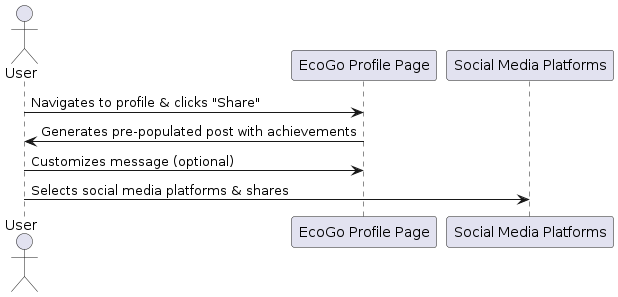
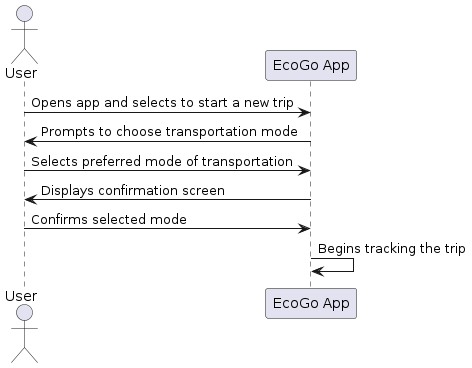
2nd draft of the technical spec + new gps part in the functional

diff --git a/Docs/Technical/TechnicalSpecification.md b/Docs/Technical/TechnicalSpecification.md
@@ -9,7 +9,9 @@
 </div>
 
 
-## I. Audience 
+## 1. Introduction
+
+### 1.1. Audience
 
 This document is primarily intended for:
 
@@ -23,25 +25,25 @@ Secondary audiences:
 
 - Project manager: to help identify risks and dependencies
 
-## II. Overview
+### 1.2. Overview
 
 EcoGo is a mobile application designed to help individuals track and reduce their carbon dioxide (CO2) emissions from everyday activities, particularly focusing on transportation. The app aims to provide users with real-time data on their emissions and incentivize eco-friendly behaviors through gamification and rewards.
 
 
-## III. Glossary
+### 1.3. Glossary
 
 | Term              | Definition                                                                 |
 |-------------------|----------------------------------------------------------------------------|
 | Firebase          | A mobile and web application development platform developed by Firebase, Inc. in 2011, then acquired by Google in 2014. |
 
 
-## IV. Requirements 
+### 1.4. Objectives 
 
 **Carbon Footprint Tracking**
-Implement a system to track carbon emissions from various transportation modes, including walking, cycling, public transport, and driving.
+Users can track their carbon emissions from various transportation modes, including walking, cycling, public transport, and driving.
 
 **Real-time Emission Calculation**
-Implement a system to calculate carbon emissions in real-time based on GPS data, distance traveled, and transportation mode.
+The app calculates carbon emissions in real-time based on GPS data, distance traveled, and transportation mode.
 
 **GPS Navigation and Transportation Mode Selection**
 Users can utilize GPS within the app to select a destination, choose their preferred mode of transportation, and receive guided directions to reach their destination.
@@ -49,64 +51,127 @@ Users can utilize GPS within the app to select a destination, choose their prefe
 **Graphical Representation**
 Users can visualize their carbon footprint over time through interactive graphs, providing insights into their environmental impact.
 
-**Gamification**
-EcoGo gamifies the carbon footprint tracking experience by rewarding users with virtual coins for reducing their emissions. Coins can be used to unlock rewards in the in-app store.
+As mentioned in the [functional specification](../Functional/FunctionalSpecification.md), the following features will be implemented in a future version of the app as they are not considered essential for the initial release:
 
-**In-App Store**
-The app features an in-app store where users can redeem coins for discounts and offers on eco-friendly products, carpooling services, and public transportation.
+-	Gamification: EcoGo will make carbon footprint tracking playful by rewarding users with virtual coins when they reduce their emissions, but this feature will be deferred to a later version.
+- In-App Store: The ability for users to redeem coins for discounts and offers on eco-friendly products, carpooling services, and public transportation.
+- Multi-language Support: EcoGo will initially support English, with plans to add additional languages in future releases.
 
-**Multi-language Support**
-The app should be available in both English and French.
 
-## 2. **Architecture and System Overview**
+### 1.5. Scope
 
-- **Platform:** The application will be developed using React Native, allowing for cross-platform compatibility across iOS and Android devices. TypeScript will be used to ensure type safety and enhance code quality.
-- **Backend Services:** Firebase will serve as the backend, providing authentication, database, and hosting services. Firestore, a NoSQL database, will be utilized for storing user data and activity logs.
-- **APIs and Integrations:**
-  - **Location Services:** Utilize native GPS and accelerometer APIs for activity tracking and transportation mode detection.
-  - **Social Media Integration:** Allow for sharing achievements on social platforms through respective APIs.
-  - **Third-Party Eco-Friendly Stores:** Integration with eco-responsible brands and services will require developing partnerships and APIs for offer retrieval and coin redemption.
+This document will detail all technical aspects of the project, including technical decisions such as the architecture of the app and the technologies used. It will not cover design aspects or user experience considerations, as those decisions are addressed in the functional specification. Additionally, all test strategies and quality assurance details will be included in the separate test plan.
 
-## 3. **Functional Requirements**
+## 2. Requirements
 
-- **User Authentication:** Implement secure login/logout functionality using Firebase Authentication. Support for email and password-based authentication will be prioritized.
-- **Activity Tracking:** Leverage device GPS and accelerometer to detect and record user transportation activities. Include manual entry options for users to input transportation modes and distances.
-- **Carbon Emission Calculation:** Develop algorithms based on transportation mode and distance to calculate and display real-time CO2 emissions. Incorporate different factors for various transportation modes, including cars (gasoline, electric), public transit, biking, and walking.
-- **Rewards System:** Design a system to award coins based on eco-friendly transportation choices. Implement a backend logic to manage coin allocation, redemption, and tracking of user achievements.
-- **EcoGo Store:** Create a marketplace within the app for users to redeem coins for offers from eco-conscious brands. Requires backend support for offer management and user redemption processes.
-- **Social Sharing:** Implement functionality for users to share their eco-friendly achievements on social media platforms directly from the app.
+### 2.1. Functional Requirements
 
-## 4. **Non-Functional Requirements**
+**Carbon Footprint Tracking:** 
+- Implement a background system that continuously runs within the app to detect the user’s transportation mode, even when the app is not actively in use.
+- Develop a tracking mechanism that records the time and distance traveled by the user in various transportation modes, including walking, cycling, public transport, and driving.
 
-- **Performance:** Ensure responsiveness and smooth operation across all supported devices. Target a consistent frame rate of 60 FPS for fluid animations and transitions.
-- **Scalability:** Design the backend to handle an increasing number of users and data volume. Employ cloud functions and scalable database solutions to manage load effectively.
-- **Security:** Adhere to best practices for data encryption, secure authentication, and privacy compliance. Regularly update security measures to protect user data.
-- **Compliance:** Ensure the app meets GDPR and other relevant privacy regulations. Implement features allowing users to manage their data, including access, correction, and deletion.
+**Real-Time Emission Calculation:**
+- Create an algorithm that calculates the carbon footprint in real-time. The calculation should be based on the user’s speed and selected transportation mode, ensuring accurate emission data.
+- The algorithm should dynamically adjust its calculations based on the detected transportation mode and GPS data.
 
-## 5. **Technical Challenges and Risks**
+**GPS Navigation and Transportation Mode Selection:**
+- Integrate a navigation system using the Google Maps API, allowing users to select a destination and receive guided directions.
+- Provide functionality for users to choose their preferred mode of transportation and display real-time navigation and emission data accordingly.
+- Implement detailed and guided navigation, offering step-by-step directions and real-time updates throughout the journey.
+-	Develop a system to mimic user movement, allowing for simulated navigation and testing of transportation modes and emission calculations.
 
-- **Data Accuracy:** Ensuring the precision of GPS and accelerometer data for activity tracking. Mitigation involves implementing calibration techniques and allowing user corrections.
-- **User Engagement:** Maintaining user interest over time. Strategies include regular feature updates, personalized content, and community challenges.
-- **Partner Integration:** Dependence on third-party brands for the EcoGo store offers. Establish multiple partnerships to diversify offers and reduce risk.
+**User Interface and Core Application Features:**
+- Develop the front-end components of the app, including:
+  - **Sign-Up/Sign-In**: User registration and authentication.
+  - **Home**: Dashboard displaying carbon footprint stats and relevant user information.
+  - **GPS**: Interface for navigation and transportation mode selection.
+  - **Store**: (Future version) In-app store for redeeming rewards.
+  - **Settings**: User account management, including modifying personal information and preferences.
+  - **Profile**: User profile displaying cumulative statistics and achievements.
 
-## 6. **Development and Deployment Plan**
+**Account Management:**
+- Implement a system for user account creation, login, and logout.
+- Provide features for modifying personal information, such as name, email, password, profile picture, and car information.
 
-- **Milestones:**
-  1. Setup development environment and tooling.
-  2. Implement user authentication and profile management.
-  3. Develop activity tracking and carbon emission calculation logic.
-  4. Design and implement the rewards system and EcoGo store.
-  5. Integrate social sharing functionality.
-  6. Conduct extensive testing across platforms.
-  7. Deploy beta version for user feedback.
-  8. Release final version and continue iterative development based on user feedback.
+**Database Management:**
+- Design and manage a database with two primary collections:
+  - **User Collection**: Stores user-specific information, including account details and settings.
+  - **User Data Collection**: Records data related to users' cars, transportation modes, and carbon emissions.
 
-- **Testing Strategy:** Employ unit, integration, and UI tests throughout development. Use automated testing tools and conduct beta testing with real users to ensure functionality and usability.
+### Non-Functional Requirements
 
-- **Deployment:** Utilize CI/CD pipelines for automated testing and deployment. Plan for staged releases, starting with a beta version to gather user feedback before the full launch.
+**Performance:**
+- Ensure that the app runs efficiently in the background, with minimal impact on device performance and battery life.
+- Maintain a responsive user interface that provides real-time updates without noticeable delay.
 
-## 7. **Maintenance and Support**
+**Security:**
+- Implement secure user authentication and data storage practices.
+- Ensure all data in transit and at rest is encrypted, adhering to best practices for user privacy and security.
 
-- **Update Policy:** Regularly release updates for bug fixes, performance enhancements, and new features based on user feedback and market trends.
-- **Support Channels:** Establish a support system through email, in-app feedback, and social media to address user concerns and gather suggestions.
+**Usability:**
+- Design the app to be intuitive and easy to navigate, ensuring that users can effortlessly access all features and functionalities.
+- Provide a seamless user experience with clear visual cues and feedback.
 
+### User Stories
+
+1. **As a user, I want to automatically track my transportation activities without manually starting the app, so I can accurately monitor my carbon emissions.**
+2. **As a user, I want to receive real-time updates on my carbon footprint while navigating to a destination, so I can make environmentally conscious travel decisions.**
+3. **As a user, I want to create an account and manage my personal information within the app, so I can securely use all features and update my profile as needed.**
+4. **As a user, I want to see a detailed summary of my transportation habits and carbon emissions over time, so I can assess my environmental impact.**
+5. **As a user, I want to select my preferred transportation mode and receive directions via the app, so I can efficiently reach my destination while minimizing my carbon footprint.**
+
+
+
+6. Requirements
+
+	•	Functional Requirements: Detailed list of features and functionalities the app must have.
+	•	Non-Functional Requirements: Performance, security, usability, and other criteria the app must meet.
+	•	User Stories: Scenarios depicting how users will interact with the app.
+
+7. System Architecture
+
+	•	High-Level Architecture: Overview of the system’s architecture, including diagrams.
+	•	Component Description: Detailed description of each major component and its responsibilities.
+	•	Data Flow: How data moves through the system.
+
+8. Technical Stack
+
+	•	Front-End Technologies: Frameworks, libraries, and tools for the client side.
+	•	Back-End Technologies: Server-side technologies, frameworks, and tools.
+	•	Database: Type of database, schemas, and any relevant details.
+	•	APIs: Internal and external APIs the app will interact with.
+
+9. Detailed Design
+
+	•	User Interface Design: Wireframes, mockups, or UI design details.
+	•	Database Design: ER diagrams, table structures, and relationships.
+	•	API Specifications: Endpoints, request/response formats, and authentication methods.
+
+10. Implementation Plan
+
+	•	Development Strategy: Agile, Scrum, or other methodologies to be used.
+	•	Milestones and Phases: Breakdown of the project into phases with timelines.
+	•	Task Allocation: Who will be responsible for what tasks.
+
+11. Testing Strategy
+
+	•	Unit Testing: How individual components will be tested.
+	•	Integration Testing: Ensuring components work together.
+	•	System Testing: Full system tests before release.
+	•	User Acceptance Testing (UAT): Validation by end users.
+
+12. Deployment Plan
+
+	•	Environment Setup: Description of development, staging, and production environments.
+	•	Deployment Strategy: Steps and processes for deploying the app.
+	•	Rollback Plan: Steps to revert to a previous state in case of issues.
+
+13. Maintenance and Support
+
+	•	Post-Launch Support: How issues will be handled post-launch.
+	•	Maintenance Plan: Regular updates, bug fixes, and improvements.
+
+14. Appendices
+
+	•	Glossary: Definitions of terms and acronyms used.
+	•	References: Any documents, tools, or resources referenced.

diff --git a/Docs/Functional/FunctionalSpecification.md b/Docs/Functional/FunctionalSpecification.md
@@ -27,11 +27,11 @@
       - [➭ Calculating System Carbon Emissions (Car)](#-calculating-system-carbon-emissions-car)
       - [➭ Calculating System Carbon Emissions (Electric Car)](#-calculating-system-carbon-emissions-electric-car)
       - [➭ Calculating System Carbon Emissions (Bus, Bicycle, and Subway)](#-calculating-system-carbon-emissions-bus-bicycle-and-subway)
-    - [8.2.5. Rewards System](#825-rewards-system)
+    - [8.2.5. GPS Navigation and Transportation Mode Selection](#825-gps-navigation-and-transportation-mode-selection)
+    - [8.2.6. Rewards System](#826-rewards-system)
       - [➭ Coin Allocation](#-coin-allocation)
       - [➭ Adjustments and Flexibility](#-adjustments-and-flexibility)
-    - [8.2.6. EcoGo Store](#826-ecogo-store)
-    - [8.2.7. Social Sharing](#827-social-sharing)
+    - [8.2.7. EcoGo Store](#827-ecogo-store)
     - [8.2.8. User Settings](#828-user-settings)
   - [8.3. Use Cases](#83-use-cases)
 - [9. Non-Functional Requirements](#9-non-functional-requirements)
@@ -84,15 +84,28 @@ The development of EcoGo is driven by the global need for actionable steps towar
  EcoGo is designed to cater to people who are environmentally conscious and seek actionable insights into reducing their carbon footprint. The application leverages real-time data tracking, gamification elements, and a reward system to foster sustainable behaviors among its users.
 
 ### 4.1. Objectives:
-- **Carbon Footprint Tracking:** To provide users with accurate, real-time tracking of their CO2 emissions based on their transportation modes, utilizing GPS and accelerometer data.
+
+1. **Enable Comprehensive Carbon Footprint Tracking**:
+   - Provide users with the ability to track carbon emissions across multiple transportation modes, including walking, cycling, public transport, and driving.
+
+2. **Implement Real-Time Emission Calculation**:
+   - Calculate carbon emissions in real time using GPS data, transportation mode, and distance traveled, ensuring users have up-to-date information on their environmental impact.
+
+3. **Offer GPS Navigation with Transportation Mode Selection**:
+   - Integrate GPS functionality that allows users to select a destination, choose their preferred mode of transportation, and receive guided directions within the app.
+
+4. **Visualize Carbon Footprint Over Time**:
+   - Develop interactive graphical tools that enable users to visualize their carbon footprint over time, providing insights into their environmental impact and progress.
+
+5. **Incorporate Gamification to Encourage Sustainable Behavior**:
+   - Introduce a gamification system where users earn virtual coins for reducing emissions, enhancing user engagement and promoting sustainable habits.
+
+6. **Establish an In-App Store for Eco-Friendly Rewards**:
+   - Create an in-app store where users can redeem earned coins for discounts and offers on eco-friendly products, carpooling services, and public transportation options.
+
+7. **Support Multi-Language Accessibility**:
+   - Ensure the app is available in both English and French to accommodate a diverse user base.
   
-- **User Engagement through Gamification:** To incorporate gamification elements such as earning coins, setting personal goals, and completing challenges to increase user engagement and promote sustained usage of the app.
-  
-- **Eco-Friendly Store System:** To develop a store system where users can spend virtual coins within the app, redeeming them for discounts and offers from eco-responsible brands and services, thereby incentivizing users to make greener choices.
-  
-- **Suggestions:** To offer user suggestions on reducing their carbon footprint through their transportation choices, for instance by suggesting carpooling or public transportation options.
-  
-- **Community and Social Engagement:** To integrate social sharing features that allow users to share their achievements and progress in reducing carbon emissions.
 
 ## 5. Target Audience:
 
@@ -130,7 +143,7 @@ The development of EcoGo is driven by the global need for actionable steps towar
 - The scope will initially concentrate on tracking emissions from 
   one or two primary transportation modes, such as driving and cycling, 
 
-- The application will not support store and social network sharing in its 
+- The application will not support store offers, the gamification system and the multi-language support in the
   initial version; these features are considered superficial for the first version.
 
 
@@ -260,7 +273,66 @@ For electric vehicles (EVs), the calculation is different and generally involves
 
 ---
 
-####  8.2.5. Rewards System
+#### 8.2.5. GPS Navigation and Transportation Mode Selection
+
+1. **Accessing the GPS Navigation:**
+   - The GPS is activated when the user clicks on the central button located in the app's footer.
+   - Upon activation, the user is initially presented with a loading animation while the map is being downloaded. 
+
+2. **Destination Input:**
+   - Once the map is displayed, the user can click on a text input area at the bottom of the screen to enter their destination.
+   - As the user begins typing, the app provides real-time suggestions based on the entered text, displaying these suggestions in a list below the input field.
+   - The user can then select their desired destination from this list, which will update dynamically as they type.
+
+3. **Transportation Mode Selection:**
+   - After the destination is selected, a pop-up window appears, presenting the user with four transportation modes: Cycling, Driving, Public Transport, and Walking.
+   - These modes were selected based on their global prevalence and usage, as supported by [statistical data](https://fr.statista.com/statistiques/1320820/modes-transport-courte-distance-monde/).
+   - For each transportation mode, the pop-up displays the following information:
+     - **Distance**: The total distance to be traveled in kilometers.
+     - **Time**: The estimated travel time in hours and minutes.
+     - **Carbon Footprint**: The estimated CO2 emissions associated with each mode, helping users understand the environmental impact of their choice.
+   - If a particular transportation mode is unavailable for the selected route, the corresponding data fields will be marked as "Not Available," and the user will not be able to select that mode.
+
+4. **Previewing the Route:**
+   - Before confirming their choice, users can preview the route on the map by selecting one of the transportation modes. The route is highlighted on the map with a blue line, allowing the user to see the entire path from start to destination.
+
+5. **Confirming the Transportation Mode:**
+   - Once the user selects a transportation mode and reviews the information, they can confirm their choice by clicking the "Confirm" button on the pop-up.
+   - Upon confirmation, the navigation system is activated, guiding the user to their destination.
+
+6. **Navigation Interface:**
+   - **Top of the Screen**:
+     - The top section displays the next instruction, including a directional arrow, street name, and the distance to the next turn or action in meters.
+   - **Bottom of the Screen**:
+     - This section shows the estimated arrival time, remaining travel time, and remaining distance.
+   - **On-Screen Map**:
+     - The user's current location is indicated by a blue marker.
+     - The entire route is shown with a blue line, helping users easily identify the path they need to follow.
+     - A button to re-center the map on the user's location is available, allowing users to manually adjust the map view if they move it with their fingers.
+   - **Real-Time Carbon Footprint Calculator**:
+     - A real-time display of the carbon footprint generated by the selected transportation mode is shown. This data is continuously updated based on the user's progress along the route, providing immediate feedback on the environmental impact of their journey.
+
+![Navigation System ](./Img/navigationSystem.png)
+
+**Mimicking System for Real-World Testing**
+
+Due to the app being fully developed on iOS, testing the app in real-world conditions presents a significant challenge. To address this, a parallel system will be developed to mimic user behavior during navigation.
+
+**System Overview:**
+ -	Once the user has selected a destination and confirmed their transportation mode, the mimic system will initiate a simulated journey.
+ -	This system will automatically follow the predefined path, updating the iPhone’s location data to replicate real-time movement.
+
+**Purpose:**
+  -	The mimic system is designed to facilitate thorough testing of the navigation feature in controlled environments, ensuring all aspects of the app’s functionality perform as expected.
+  - This system will also be instrumental in stress-testing the app’s performance under different scenarios, providing critical insights that inform further development and optimization.
+	
+**Technical Details:**
+   - The detailed implementation of this mimic system, including how it interfaces with the navigation and GPS features, will be outlined in the [technical specification](../Technical/TechnicalSpecification.md).
+
+
+--- 
+
+####  8.2.6. Rewards System
 
 Within the app, users accumulate coins as a reward for reducing their carbon footprint. The reward system is structured around several key criteria that directly relate to eco-friendly behaviors and choices:
 
@@ -307,21 +379,11 @@ Within the app, users accumulate coins as a reward for reducing their carbon foo
 - This reward system is subject to adjustments based on user feedback, the app's economic model, and the overarching goal of promoting sustainable behaviors. Future updates may refine coin values to better align with these objectives, ensuring the system remains effective and motivating for users.
 
 
-#### 8.2.6. EcoGo Store
+#### 8.2.7. EcoGo Store
 
 The EcoGo Store is a virtual marketplace within the app, showcasing offers from eco-conscious brands and restaurants. Users can spend their earned coins to redeem discounts and vouchers, engaging directly with businesses that share EcoGo's commitment to sustainability.
 
 While the implementation of this feature in the current version will be simulated, due to its status as a school project. 
-
-
-#### 8.2.7. Social Sharing
-Within the app, the profile page features a dedicated "Share" button, enabling users to effortlessly create and post content to their social media accounts. Clicking this button generates a pre-populated post that highlights key information from the user's profile, such as the amount of CO2 they've reduced over the day, week, and month, along with their preferred mode of eco-friendly transportation. This feature encourages users to share their environmental achievements, promoting awareness and inspiring others to join in making more sustainable transportation choices.
-
-![Social Wireframe](./Img/wireframeSocial.png)
-
-Above is a wireframe of the social sharing feature. It is only a wireframe, the final version may look different. This wireframe is generated by an AI.  
-
-![Social Sharing](./Img/share.png)
 
 
 #### 8.2.8. User Settings
@@ -542,24 +604,26 @@ Above is a wireframe of the social sharing feature. It is only a wireframe, the 
 
 ---
 
-- **Use Case 7: Sharing Eco-Friendly Achievements on Social Media**
+- **Use Case 7: Choose and Confirm The Transportation Mode**
 
   **Actors:**
   - User
 
   **Preconditions:**
-  - The user has achieved a notable milestone in carbon footprint reduction or completed a challenge.
+  - The user is about to start a trip and needs to select the mode of transportation.
 
   **Main Flow:**
-  1. The user navigates to their profile page and clicks the "Share" button.
-  2. The app generates a pre-populated post highlighting the user's achievements, such as CO2 reduction, preferred transportation mode, or completed challenges.
-  3. The user can customize the message if desired and selects the social media platforms where they want to share their achievement.
-  4. The user posts the achievement to their selected social media platforms directly from the app.
+  1. The user opens the EcoGo app and selects the option to start a new trip.
+  2. The app prompts the user to choose the mode of transportation from a list of options (e.g., walking, cycling, public transit, car).
+  3. The user selects the preferred mode of transportation.
+  4. The app displays a confirmation screen with the selected mode and asks the user to confirm.
+  5. The user confirms the selected mode, and the app begins tracking the trip.
 
   **Postconditions:**
-  - The user's achievements are shared on social media, increasing awareness and potentially motivating others to join EcoGo.
+  - The user's trip is successfully initiated with the selected mode of transportation.
 
   ![useCase7](./Img/useCase7.png)
+
 
 ---
 
